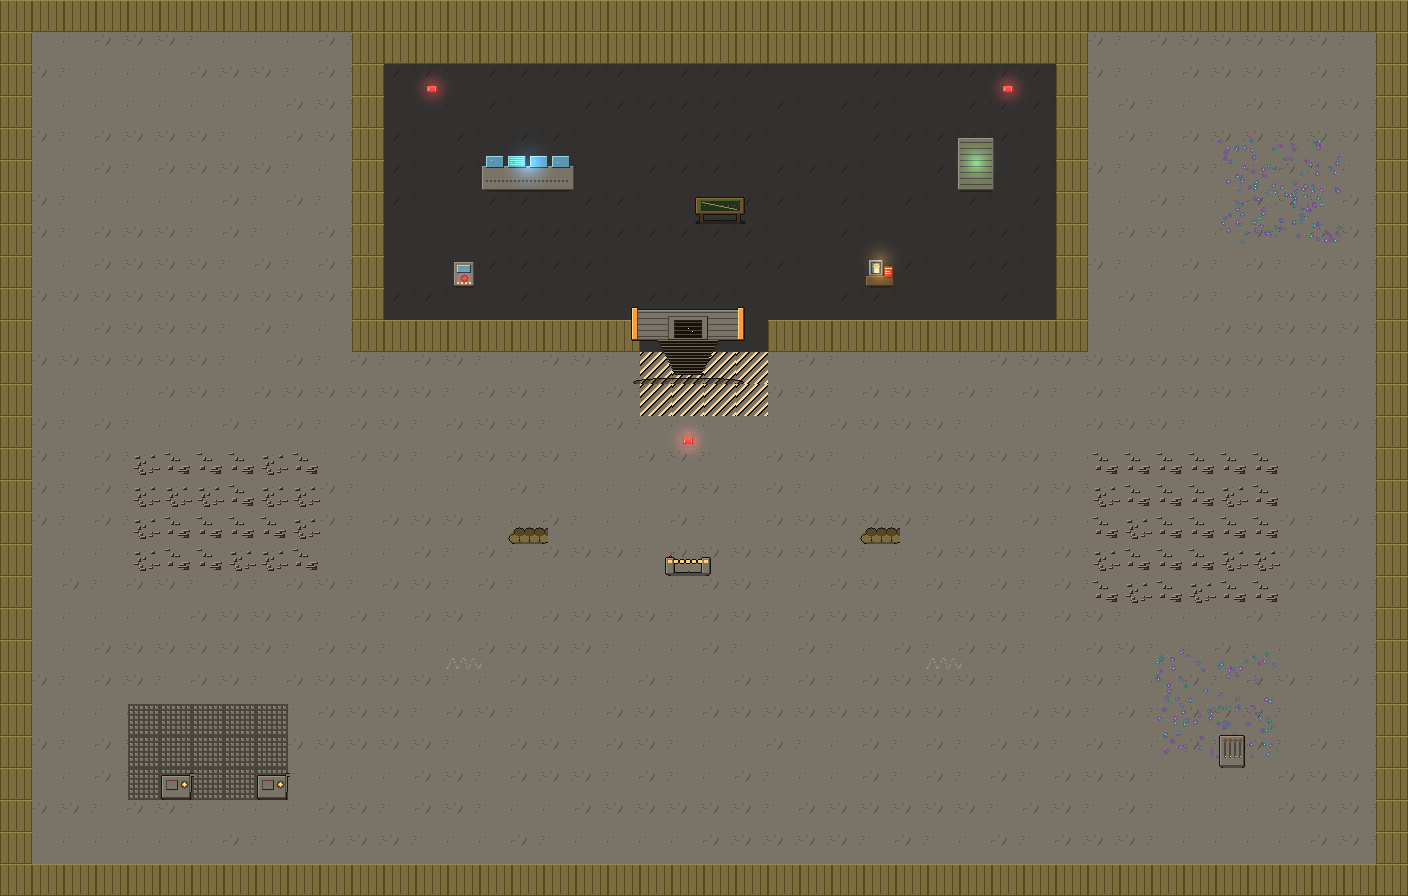
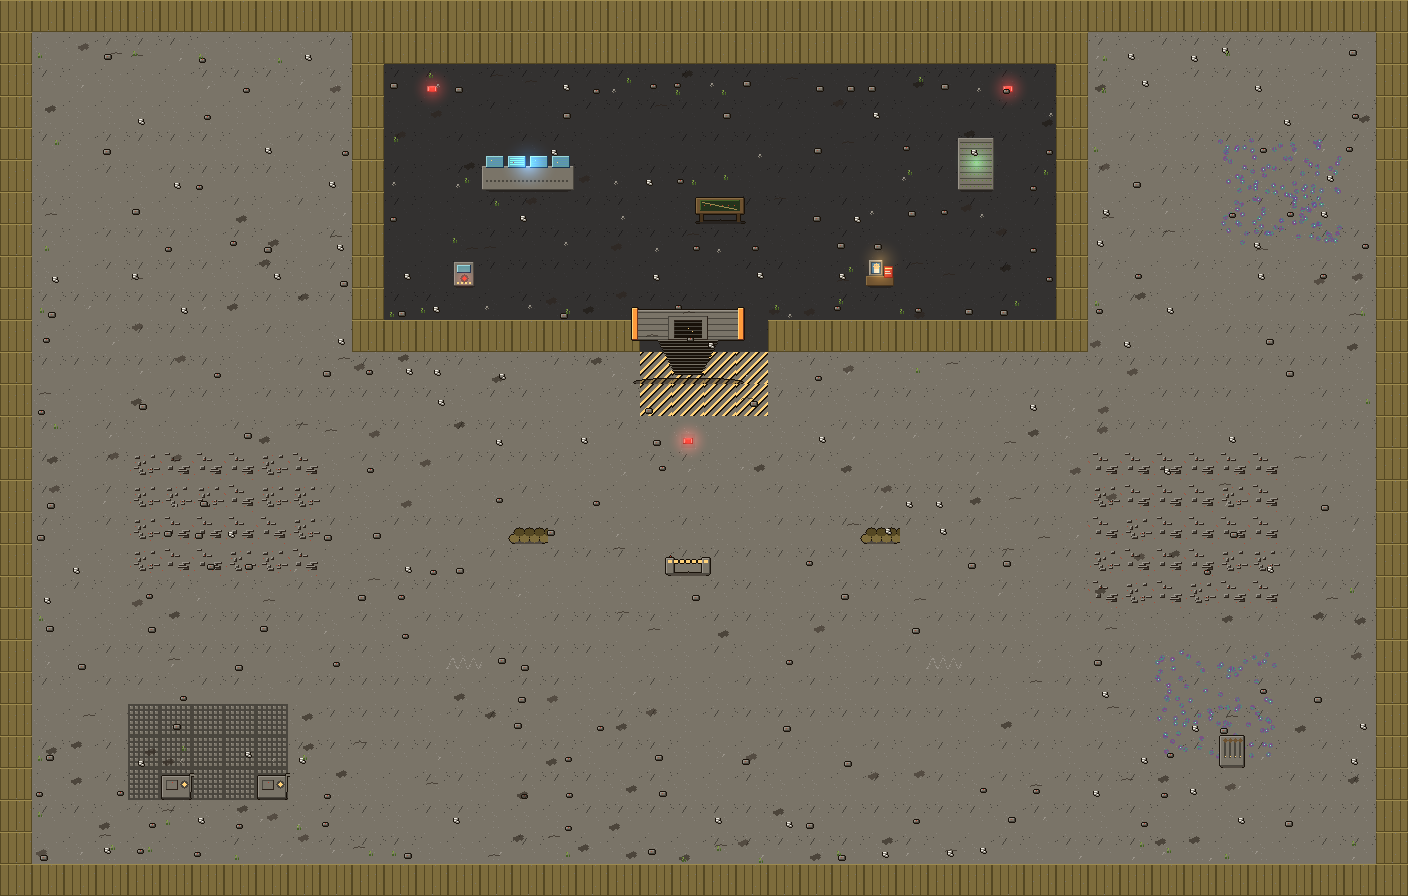
world: layer the lived-in clutter pass onto every map (+ trees)
tools/scatter.ts — a shared, biome-filtered, density-tiered scatter pass
(Clutter doc): floor litter, stains/cracks/puddles, and weeds/moss
reclaiming from the edges, pooled at walls/corners and worn along desire
lines. Decals only (no collision change → all maps still flood-fill
fully reachable). Wired into all seven composers (Ohmstead, Field, Farm
Road, Railhead, Cistern, Bastion, Redoubt) with per-area biome+density.
Now the roads, yards, and chambers read inhabited and worn, not flat
tilemaps. dist rebuilt.

https://claude.ai/code/session_011145P3mq8AKQQDw7ZjrAxF

diff --git a/tools/scatter.ts b/tools/scatter.ts
@@ -1,0 +1,96 @@
+/**
+ * Lived-in scatter pass (Clutter & Detail Layer doc) — bakes the universal
+ * floor/decal/reclamation layer onto a composed map so it reads inhabited and
+ * worn, not a clean tilemap. Decals only (no collision change → reachability is
+ * preserved). Scatter logic per the doc §3: clutter pools at walls/corners,
+ * wear on desire lines, weeds/moss reclaim from the edges; density-tiered;
+ * biome-filtered; keep-clear honoured (never on spawn/exits/interacts/NPCs).
+ */
+import { Grid } from './gridart';
+import { Sprite } from './spritekit';
+import { Rng } from '../src/core/rng';
+
+export type Density = 'tidy' | 'lived_in' | 'cluttered' | 'squalid' | 'ruined';
+const RATE: Record<Density, number> = { tidy: 0.05, lived_in: 0.12, cluttered: 0.22, squalid: 0.34, ruined: 0.46 };
+
+// ---- tiny clutter drawers (6–14px) --------------------------------------
+const D = {
+  paper: (): Sprite => { const g = new Grid(9, 6); const r = new Rng(1); for (let k = 0; k < 3; k++) g.box(r.int(0, 5), r.int(0, 3), r.int(3, 4), 2, '*', 'w', 'W'); g.outline('X'); return g.render(); },
+  can: (): Sprite => { const g = new Grid(8, 6); g.box(1, 2, 5, 3, 'l', 'a', 'A'); g.set(3, 2, 'b'); g.outline('X'); return g.render(); },
+  bolts: (): Sprite => { const g = new Grid(7, 6); const r = new Rng(2); for (let k = 0; k < 4; k++) { g.set(r.int(1, 5), r.int(1, 4), 'a'); g.set(r.int(1, 5), r.int(1, 4), 'l'); } return g.render(); },
+  pebbles: (): Sprite => { const g = new Grid(8, 6); const r = new Rng(3); for (let k = 0; k < 5; k++) g.set(r.int(0, 7), r.int(0, 5), r.chance(50) ? 'W' : 'n'); return g.render(); },
+  scrap: (): Sprite => { const g = new Grid(9, 7); g.box(1, 2, 6, 4, 'l', 'a', 'A'); g.set(3, 3, 'e'); g.outline('X'); return g.render(); },
+  coal: (): Sprite => { const g = new Grid(8, 6); const r = new Rng(4); for (let k = 0; k < 6; k++) g.set(r.int(0, 7), r.int(0, 5), r.chance(50) ? 'X' : 'x'); return g.render(); },
+  leaf: (): Sprite => { const g = new Grid(8, 5); const r = new Rng(5); for (let k = 0; k < 4; k++) g.set(r.int(0, 7), r.int(0, 4), r.chance(50) ? 'j' : 'h'); return g.render(); },
+  weed: (): Sprite => { const g = new Grid(8, 9); const r = new Rng(6); for (let k = 0; k < 5; k++) { const x = r.int(1, 6); g.set(x, 8, 'g'); g.set(x, 7, 'g'); g.set(x, 6 - r.int(0, 2), r.chance(50) ? 'F' : 'f'); } return g.render(); },
+  moss: (): Sprite => { const g = new Grid(10, 6); g.ellipse(5, 4, 4, 2, 'g'); const r = new Rng(7); for (let k = 0; k < 4; k++) g.set(r.int(1, 8), r.int(2, 4), 'F'); return g.render(); },
+  twig: (): Sprite => { const g = new Grid(9, 4); g.line(0, 3, 8, 1, 'K'); g.line(4, 2, 6, 3, 'k'); return g.render(); },
+};
+// decals (translucent, sit on the floor)
+function alphaize(s: Sprite, a: number): Sprite { for (let y = 0; y < s.h; y++) for (let x = 0; x < s.w; x++) { const c = s.get(x, y); if ((c[3] ?? 0) > 0) s.set(x, y, [c[0], c[1], c[2], a]); } return s; }
+const DECAL = {
+  crack: (): Sprite => { const g = new Grid(12, 7); const r = new Rng(8); let x = 0; let y = 3; for (let k = 0; k < 6; k++) { const nx = x + 2; const ny = y + r.int(-1, 1); g.line(x, y, nx, ny, 'x'); x = nx; y = ny; } return alphaize(g.render(), 150); },
+  stain: (c: string): (() => Sprite) => () => { const g = new Grid(13, 9); const r = new Rng(9); for (let k = 0; k < 5; k++) g.ellipse(r.int(2, 10), r.int(2, 6), r.int(2, 4), r.int(1, 2), c); return alphaize(g.render(), 120); },
+  puddle: (): Sprite => { const g = new Grid(13, 8); g.ellipse(6, 5, 5, 2, 'C'); g.ellipse(5, 4, 3, 1, 'c'); return alphaize(g.render(), 150); },
+  dust: (): Sprite => { const g = new Grid(13, 7); const r = new Rng(10); for (let k = 0; k < 4; k++) g.ellipse(r.int(2, 10), r.int(2, 5), r.int(2, 4), 2, 'W'); return alphaize(g.render(), 90); },
+};
+
+type Drawer = () => Sprite;
+interface Kit { floor: Drawer[]; decal: Drawer[]; reclaim: Drawer; }
+function kitFor(biome: string): Kit {
+  switch (biome) {
+    case 'prairie': return { floor: [D.leaf, D.weed, D.pebbles, D.twig], decal: [DECAL.stain('K'), DECAL.dust], reclaim: D.weed };
+    case 'industrial': return { floor: [D.bolts, D.can, D.paper, D.scrap, D.coal], decal: [DECAL.stain('x'), DECAL.crack], reclaim: D.weed };
+    case 'flooded': return { floor: [D.moss, D.pebbles, D.leaf], decal: [DECAL.puddle, DECAL.stain('C')], reclaim: D.moss };
+    case 'quarry': return { floor: [D.pebbles, D.scrap, D.bolts], decal: [DECAL.dust, DECAL.crack], reclaim: D.weed };
+    case 'military': return { floor: [D.can, D.bolts, D.paper, D.scrap], decal: [DECAL.stain('x'), DECAL.crack, DECAL.stain('X')], reclaim: D.weed };
+    case 'underground': default: return { floor: [D.bolts, D.pebbles, D.scrap], decal: [DECAL.crack, DECAL.stain('x')], reclaim: D.moss };
+  }
+}
+
+export interface ScatterOpts {
+  cols: number; rows: number; tile: number;
+  solid: (c: number, r: number) => boolean; // a cell that blocks (wall/water/prop)
+  keepClear?: (c: number, r: number) => boolean; // spawn/exits/interacts/NPCs
+  density: Density; biome: string; seed: number;
+}
+
+export function scatterClutter(big: Sprite, o: ScatterOpts): number {
+  const r = new Rng(o.seed);
+  const T = o.tile;
+  const kit = kitFor(o.biome);
+  const cache = new Map<Drawer, Sprite>();
+  const get = (d: Drawer): Sprite => { let s = cache.get(d); if (!s) { s = d(); cache.set(d, s); } return s; };
+  const blit = (s: Sprite, x0: number, y0: number): void => {
+    for (let y = 0; y < s.h; y++) for (let x = 0; x < s.w; x++) { const c = s.get(x, y); const a = (c[3] ?? 0) / 255; if (a === 0) continue; const px = x0 + x; const py = y0 + y; if (px < 0 || py < 0 || px >= big.w || py >= big.h) continue; const dd = big.get(px, py); big.set(px, py, [Math.round(c[0] * a + dd[0] * (1 - a)), Math.round(c[1] * a + dd[1] * (1 - a)), Math.round(c[2] * a + dd[2] * (1 - a)), 255]); } };
+  const open = (c: number, rr: number): boolean => c >= 0 && rr >= 0 && c < o.cols && rr < o.rows && !o.solid(c, rr);
+  const nearSolid = (c: number, rr: number): boolean => o.solid(c - 1, rr) || o.solid(c + 1, rr) || o.solid(c, rr - 1) || o.solid(c, rr + 1);
+  let n = 0;
+  for (let row = 0; row < o.rows; row++)
+    for (let c = 0; c < o.cols; c++) {
+      if (!open(c, row) || o.keepClear?.(c, row)) continue;
+      const edge = nearSolid(c, row);
+      let p = RATE[o.density] * (edge ? 2.3 : 1); // clutter pools at walls/corners
+      // floor clutter
+      if (r.chance(p * 100)) {
+        const s = get(kit.floor[r.int(0, kit.floor.length - 1)]!);
+        const ox = c * T + r.int(2, T - s.w - 2);
+        const oy = row * T + r.int(T / 2, T - s.h - 1); // weighted to lower half (depth)
+        blit(s, ox, oy);
+        n++;
+      }
+      // decal wear (sparser)
+      if (r.chance(p * 55)) {
+        const s = get(kit.decal[r.int(0, kit.decal.length - 1)]!);
+        blit(s, c * T + r.int(1, T - s.w - 1), row * T + r.int(1, T - s.h - 1));
+        n++;
+      }
+      // reclamation creeping from the edges
+      if (edge && r.chance(p * 45)) {
+        const s = get(kit.reclaim);
+        blit(s, c * T + r.int(2, T - s.w - 2), row * T + r.int(4, T - s.h - 1));
+        n++;
+      }
+    }
+  return n;
+}

diff --git a/tools/gen-redoubt.ts b/tools/gen-redoubt.ts
@@ -16,6 +16,7 @@ import {
   armoryRack, audioLog, blastRamp, checkpointGate, commandConsole, concreteFloor, eliPhoto,
   emergencyLight, generator, grate, hazardFloor, mapTable, prefabWall, razorwire, sandbags, serverBank,
 } from './assets/kit-redoubt';
+import { scatterClutter } from './scatter';
 
 const T = 32;
 const COLS = 44;
@@ -137,6 +138,8 @@ glow(16 * T + 16, 5 * T + 4, 30, [18, 45, 80]);
 glow(30 * T + 16, 5 * T, 26, [18, 55, 30]);
 glow(27 * T + 16, 8 * T + 4, 24, [70, 50, 20]); // Eli photo
 for (const o of objs) if (o.s.h === 14 && o.s.w === 14) glow(o.col * T + 16, o.row * T + T - 8, 22, [120, 22, 22]); // emergency lights
+
+scatterClutter(big, { cols: COLS, rows: ROWS, tile: T, density: 'cluttered', biome: 'military', seed: 4206, solid: (c, r) => { const ch = MAP[r]?.[c]; return ch === '#' || extraSolid.has(`${c},${r}`); } });
 
 const png = new PNG({ width: W, height: H });
 png.data.set(big.data);

diff --git a/tools/gen-field.ts b/tools/gen-field.ts
@@ -14,6 +14,7 @@ import { Sprite } from './spritekit';
 import { Rng } from '../src/core/rng';
 import { barn, house, watertower, windmill } from './world-builders';
 import { cattleFence, church, coopVault, elevatorHatch, hayBale, hitchingPost, silo, siloCluster, trough } from './assets/kit-field';
+import { scatterClutter } from './scatter';
 
 const T = 32;
 const COLS = 40;
@@ -185,6 +186,9 @@ for (const o of objs) {
     for (let cc = c0; cc <= c1; cc++) for (let rr = o.row - o.solid + 1; rr <= o.row; rr++) extraSolid.add(`${cc},${rr}`);
   }
 }
+
+// lived-in layer: floor litter, stains, weeds reclaiming the dead town
+scatterClutter(big, { cols: COLS, rows: ROWS, tile: T, density: 'squalid', biome: 'prairie', seed: 4201, solid: (c, r) => { const ch = MAP[r]?.[c]; return ch === '#' || ch === 'w' || extraSolid.has(`${c},${r}`); } });
 
 const png = new PNG({ width: W, height: H });
 png.data.set(big.data);

diff --git a/tools/gen-cistern.ts b/tools/gen-cistern.ts
@@ -15,6 +15,7 @@ import {
   catwalk, channelWall, concreteFloor, footbridge, grangeTable, ladder, lantern,
   ohmCradle, pipeValve, planter, pumpMachine, reeds, seedVault, sluiceGate, water,
 } from './assets/kit-cistern';
+import { scatterClutter } from './scatter';
 
 const T = 32;
 const COLS = 40;
@@ -120,6 +121,8 @@ glow(4 * T + 16, 8 * T + 16, 24, [25, 60, 110]);
 glow(9 * T + 16, 8 * T + 16, 24, [25, 60, 110]);
 glow(35 * T + 16, 9 * T + 20, 26, [18, 80, 70]);
 for (const o of objs) if (o.s.h === 24 && o.s.w === 16) glow(o.col * T + 16, o.row * T + T - 14, 24, [110, 75, 25]);
+
+scatterClutter(big, { cols: COLS, rows: ROWS, tile: T, density: 'lived_in', biome: 'flooded', seed: 4204, solid: (c, r) => { const ch = MAP[r]?.[c]; return ch === '#' || ch === '~' || extraSolid.has(`${c},${r}`); } });
 
 const png = new PNG({ width: W, height: H });
 png.data.set(big.data);

diff --git a/tools/gen-railhead.ts b/tools/gen-railhead.ts
@@ -17,6 +17,7 @@ import {
   ballast, boxcar, brokerDesk, bufferStop, coalPile, commodityCrate, lantern,
   marketStall, platform, railH, roundhouse, semaphore, signalGantry, switchLever, turntable,
 } from './assets/kit-railhead';
+import { scatterClutter } from './scatter';
 
 const T = 32;
 const COLS = 44;
@@ -174,6 +175,8 @@ for (const o of objs) {
 }
 // lantern glow pools
 for (const o of objs) if (o.s.h === 26 && o.s.w === 16) glow(o.col * T + T / 2, o.row * T + T - 16, 26, [120, 75, 22]);
+
+scatterClutter(big, { cols: COLS, rows: ROWS, tile: T, density: 'cluttered', biome: 'industrial', seed: 4203, solid: (c, r) => { const ch = MAP[r]?.[c]; return ch === '#' || extraSolid.has(`${c},${r}`); } });
 
 const png = new PNG({ width: W, height: H });
 png.data.set(big.data);

diff --git a/tools/gen-bastion.ts b/tools/gen-bastion.ts
@@ -15,6 +15,7 @@ import {
   brazier, cementSilo, conveyor, crane, cutStone, gateWinch, gravelGround, kiln,
   pitMouth, quarryWall, rubbleHeap, sandbags, scaffold, scree, theWall, watchtower,
 } from './assets/kit-bastion';
+import { scatterClutter } from './scatter';
 
 const T = 32;
 const COLS = 44;
@@ -117,6 +118,8 @@ for (const o of objs) {
   }
 }
 for (const o of objs) if (o.s.h === 24 && o.s.w === 18) glow(o.col * T + 16, o.row * T + T - 14, 22, [120, 70, 22]); // braziers
+
+scatterClutter(big, { cols: COLS, rows: ROWS, tile: T, density: 'cluttered', biome: 'quarry', seed: 4205, solid: (c, r) => { const ch = MAP[r]?.[c]; return ch === '#' || ch === 'c' || extraSolid.has(`${c},${r}`); } });
 
 const png = new PNG({ width: W, height: H });
 png.data.set(big.data);

diff --git a/tools/gen-underground.ts b/tools/gen-underground.ts
@@ -14,6 +14,7 @@ import { PNG } from 'pngjs';
 import { Grid } from './gridart';
 import { Sprite } from './spritekit';
 import { Rng } from '../src/core/rng';
+import { scatterClutter } from './scatter';
 
 const OUT = join(new URL('..', import.meta.url).pathname, 'public/world');
 mkdirSync(OUT, { recursive: true });
@@ -545,6 +546,8 @@ for (const o of objs) {
       for (let rr = o.row - rowsUp; rr <= o.row; rr++) extraSolid.add(`${cc},${rr}`);
   }
 }
+
+scatterClutter(big, { cols: COLS, rows: ROWS, tile: T, density: 'lived_in', biome: 'underground', seed: 4207, solid: (c, r) => { const ch = MAP[r]?.[c]; return ch === '#' || ch === '=' || ch === '~' || extraSolid.has(`${c},${r}`); } });
 
 const png = new PNG({ width: W, height: H });
 png.data.set(big.data);

diff --git a/tools/gen-farmroad.ts b/tools/gen-farmroad.ts
@@ -13,6 +13,7 @@ import { Grid } from './gridart';
 import { Sprite } from './spritekit';
 import { Rng } from '../src/core/rng';
 import { barn, watertower } from './world-builders';
+import { scatterClutter } from './scatter';
 
 const T = 32;
 const COLS = 28;
@@ -141,6 +142,8 @@ for (const o of objs) {
     for (let cc = c0; cc <= c1; cc++) for (let rr = o.row - o.solid + 1; rr <= o.row; rr++) extraSolid.add(`${cc},${rr}`);
   }
 }
+
+scatterClutter(big, { cols: COLS, rows: ROWS, tile: T, density: 'lived_in', biome: 'prairie', seed: 4202, solid: (c, r) => { const ch = MAP[r]?.[c]; return ch === '#' || extraSolid.has(`${c},${r}`); } });
 
 const png = new PNG({ width: W, height: H });
 png.data.set(big.data);
